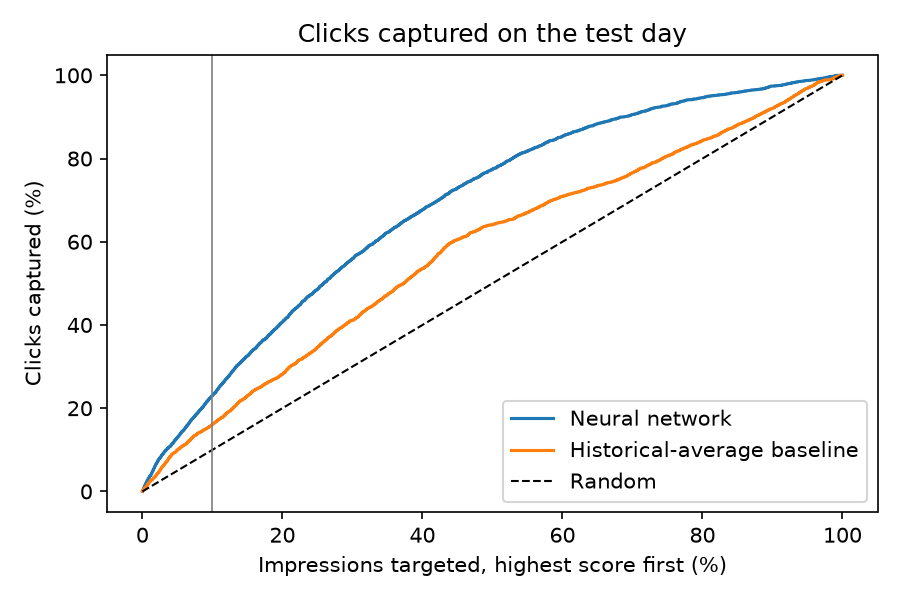
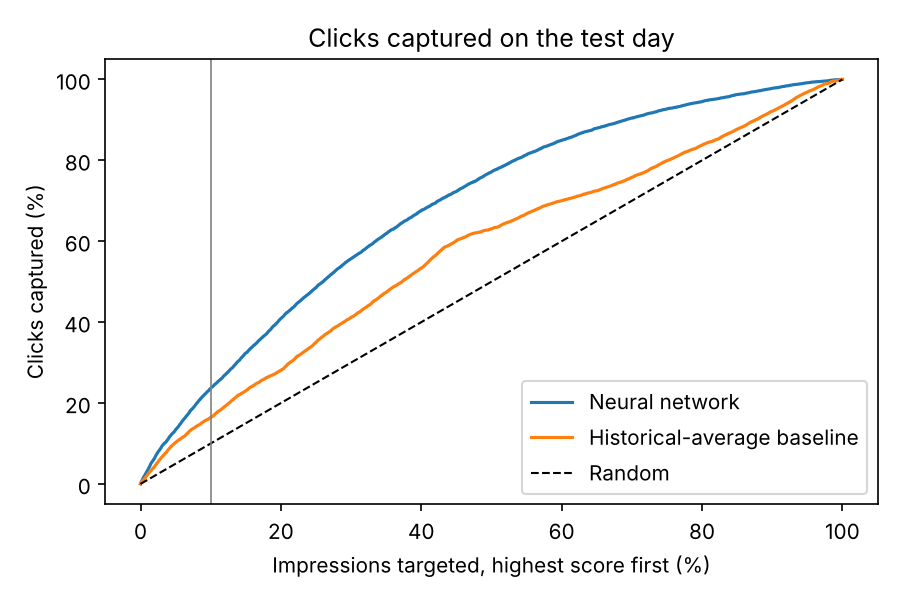
Scale the sample up to 500k rows and rerun everything
SAMPLE_FRAC goes from 0.005 (about 200k rows) to 0.0125 (504,689 rows),
the size promised in the mid-report. All outputs, report figures and
feature importance are regenerated from the 500k run.

diff --git a/src/ctr_mid_report.py b/src/ctr_mid_report.py
@@ -23,7 +23,7 @@ from sklearn.metrics import log_loss, roc_auc_score
 from torch import nn
 
 # ---------------------------------------------------------------- knobs
-SAMPLE_FRAC = 0.005      # 0.005 is about 200k rows; 0.0125 is about 500k
+SAMPLE_FRAC = 0.0125     # 0.0125 is about 500k rows; 0.005 is about 200k
 CHUNK_SIZE = 1_000_000   # rows read from train.gz at a time
 TEST_DAY = "141030"      # YYMMDD of the held-out test day (2014-10-30)
 VAL_FRAC = 0.10          # share of the non-test rows kept aside for validation

diff --git a/README.md b/README.md
@@ -43,7 +43,7 @@ If you need a new package: add it to `requirements.txt`, commit, tell your teamm
 
 | Step | What happens |
 | --- | --- |
-| 1. Sample | Reads `train.gz` in 1M-row chunks and keeps 0.5% of each (about 200k rows). The last day (2014-10-30) is the test set, and 10% of the rest is kept aside for validation. |
+| 1. Sample | Reads `train.gz` in 1M-row chunks and keeps 1.25% of each (about 500k rows). The last day (2014-10-30) is the test set, and 10% of the rest is kept aside for validation. |
 | 2. Features | Splits `hour` into hour of day and day of week, maps each category to an ID (values seen fewer than 10 times become "other"), and drops `device_id` and `device_ip`. |
 | 3. Baseline | Predicts each test ad's click rate from the past average for its site category, device type, and banner position, which is the Excel pivot-table approach. |
 | 4. Model | Gives each of the 21 features an 8-number embedding, then two dense layers (128 and 64) and a sigmoid output. Trained with Adam and stops early once validation loss stops improving. |
@@ -58,7 +58,7 @@ Output: `outputs/feature_importance.csv` (per feature), `outputs/feature_importa
 
 `day_of_week` always scores 0: the test set is a single day, so every test row has the same day of week and shuffling it changes nothing. Its effect can't be measured with this test split.
 
-Knobs (`SAMPLE_FRAC`, `EMB_DIM`, `HIDDEN`, `DROPOUT`, `LR`, and so on) are at the top of the script. Set `SAMPLE_FRAC = 0.0125` for about 500k rows.
+Knobs (`SAMPLE_FRAC`, `EMB_DIM`, `HIDDEN`, `DROPOUT`, `LR`, and so on) are at the top of the script. Set `SAMPLE_FRAC = 0.005` for the smaller 200k-row sample used in the mid-report.
 
 Don't report accuracy. Most ads aren't clicked, so "never clicks" looks accurate and is useless.
 
